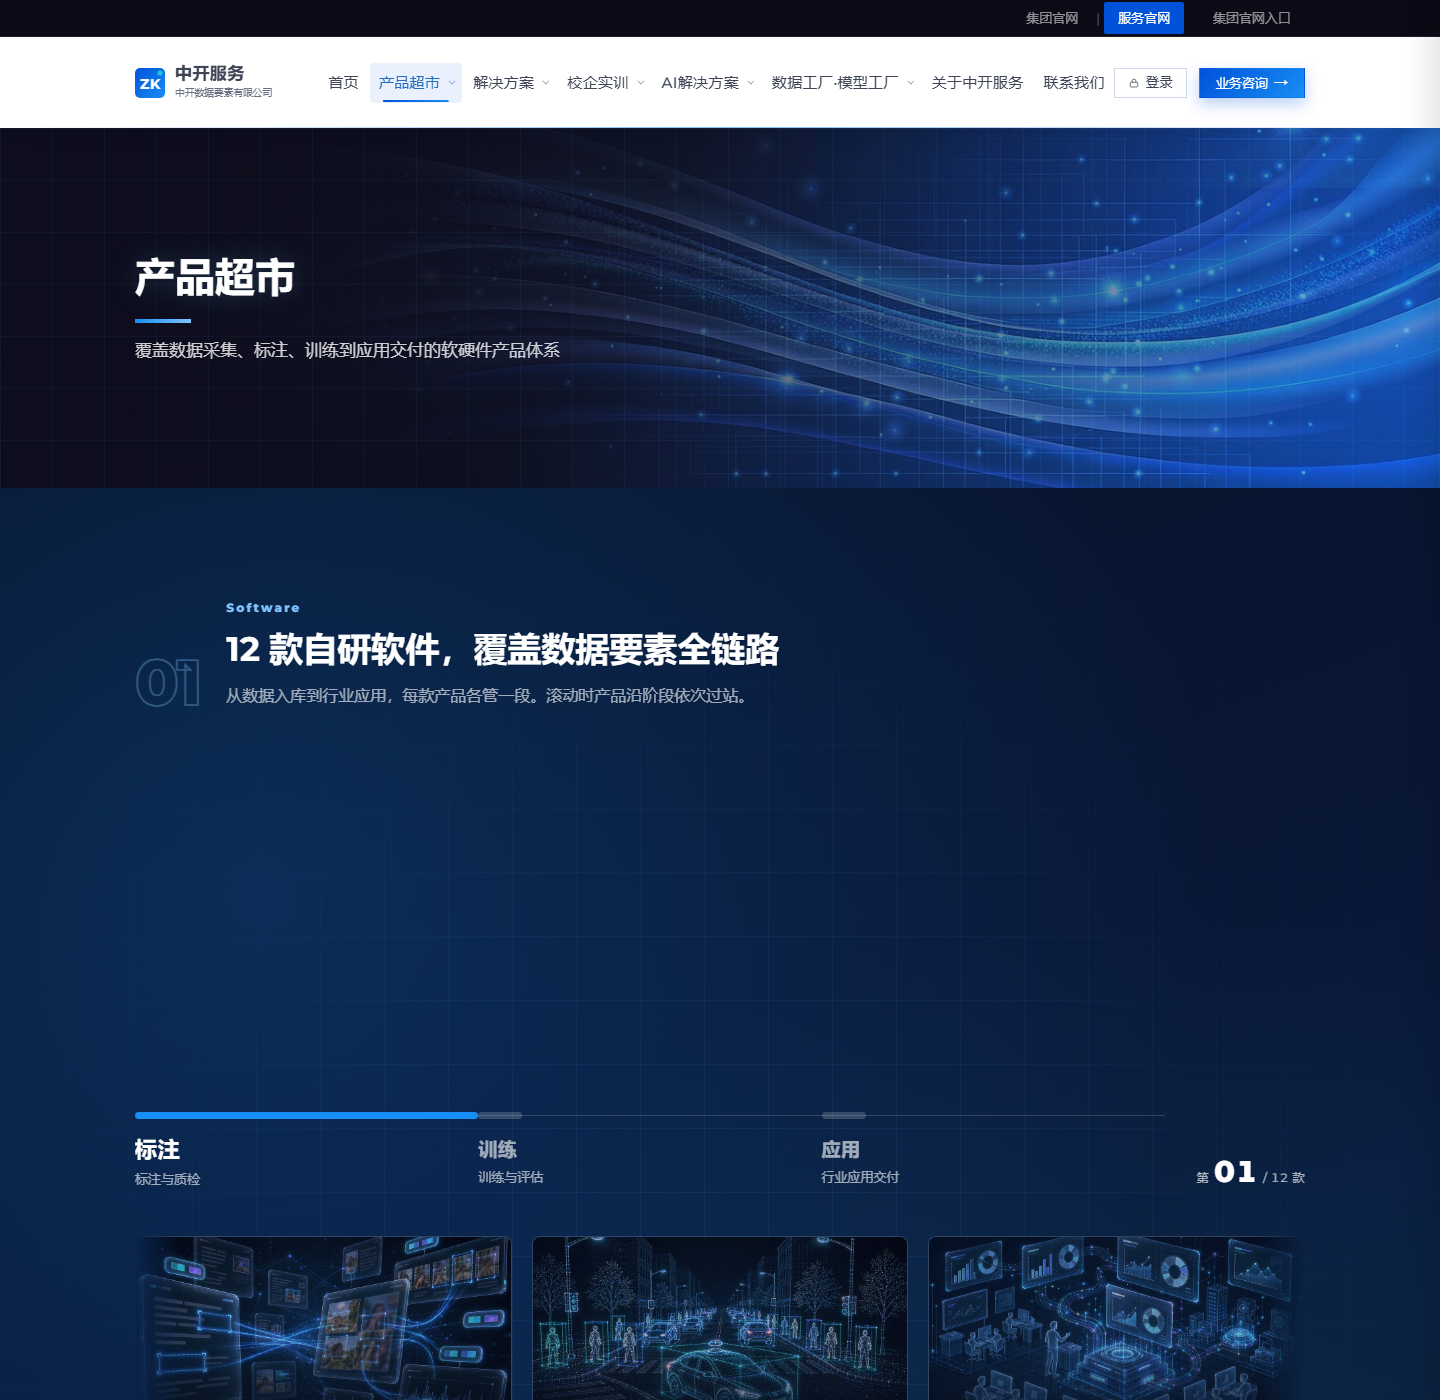
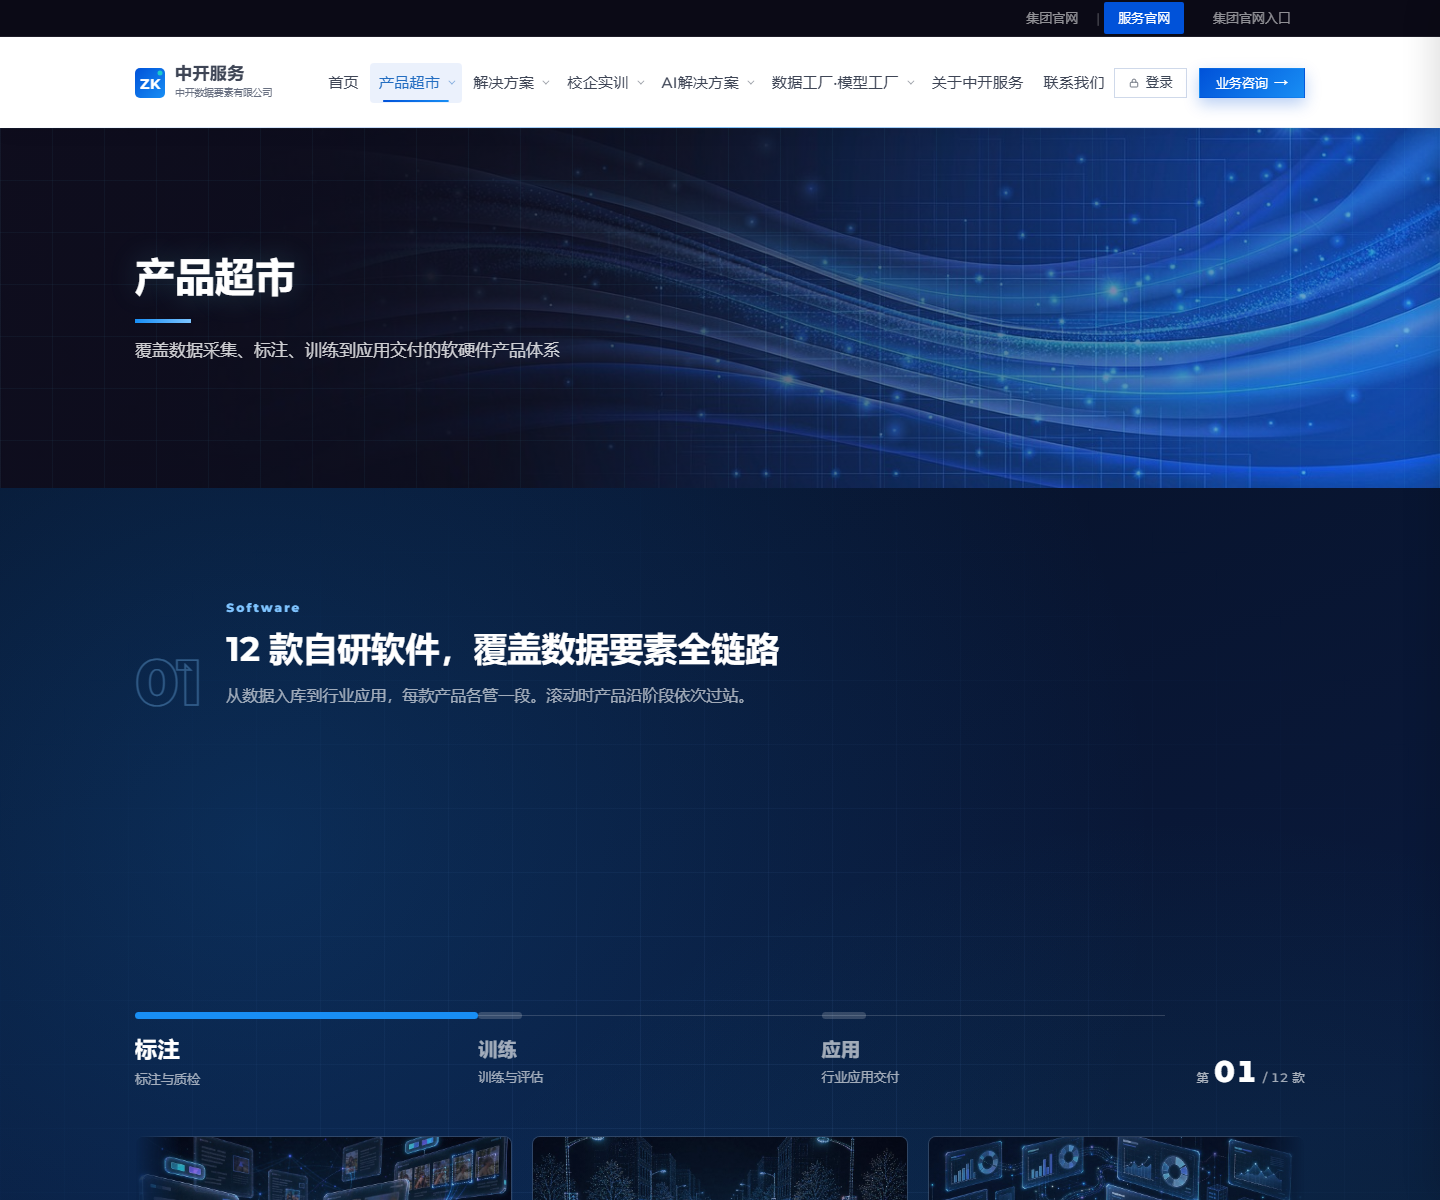
校准文档数字为线上真实值（2,000+ 席位 / 60+ 院校 / 30+ 企业）+ 补 Pages 实拍截图 8 张

diff --git a/screenshots/README.md b/screenshots/README.md
@@ -1,8 +1,21 @@
 # 附录 · 截图说明
 
-所有截图来自真实运行中的系统（本地 127.0.0.1:8901 静态服务 / 后台 6993），非设计稿。
+所有截图来自真实运行中的系统（GitHub Pages 上的 `site/` 镜像 / 本地后台 6993），非设计稿。
 
-## 官网（前台）
+## 线上实拍（GitHub Pages 上跑的真实镜像）
+
+| 文件 | 页面 | 看点 |
+|---|---|---|
+| [pages-index.png](pages-index.png) | 服务官网首页 | 视频首屏 + 数据条（5 省 / 2,000+ 席位 / 60+ 院校 / 30+ 企业）+ 资讯区 |
+| [pages-products.png](pages-products.png) | 产品超市 | 12 款软件 / 3 款硬件的分阶段货架（标注→训练→应用） |
+| [pages-product-3d.png](pages-product-3d.png) | 3D 点云标注平台 | 能力卡 4 张 + 规格表 6 行 + 相关产品 |
+| [pages-solutions.png](pages-solutions.png) | 解决方案 | 4 个方案块 |
+| [pages-group-bases.png](pages-group-bases.png) | 园区基地（集团站） | 7 基地 / 5 省 / 4,098+ 席位 / 6,997+ 就业，按省筛选 |
+| [pages-group-base-rizhao.png](pages-group-base-rizhao.png) | 日照基地详情 | 单基地的完整证据链 |
+| [pages-contact.png](pages-contact.png) | 联系我们 | **注意：「提交需求」无后端（已知缺陷 F-17）** |
+| [pages-landing.png](pages-landing.png) | 项目落地页 | 前后台双入口 + 统计条 |
+
+## 官网（本地构建版）
 
 | 文件 | 页面 | 看点 |
 |---|---|---|

diff --git a/docs/11-风险与合规.md b/docs/11-风险与合规.md
@@ -21,7 +21,7 @@
 | 风险 | 说明 | 措施 |
 |---|---|---|
 | 客户名单使用 | 基地页提到京东、字节跳动、人瑞等企业项目 | 只用「入驻企业/服务客户」的事实陈述，不使用客户 logo 与商标；对外可脱敏为「头部互联网企业」 |
-| 宣传口径 | 「1,929 个固定作业席位」「58 所合作院校」「29 家头部科技企业」等数字 | 每个数字可追溯到基地台账；对外发布前由业务确认；文案不用「最」「第一」等绝对化用语 |
+| 宣传口径 | 「2,000+ 个固定作业席位」「60+ 所合作院校」「30+ 家头部科技企业」等数字 | 每个数字可追溯到基地台账；对外发布前由业务确认；文案不用「最」「第一」等绝对化用语 |
 | 采访/报道转载 | 资讯分类含「国家政策」，会转载政策原文 | 只做摘要 + 原文链接，不全文转载；标注来源 |
 | 公众号同步版权 | 自动抓取本企业公众号文章 | 只抓自有公众号（绑定的是企业号），不抓第三方 |
 | ICP 备案 | 站点底部备案号 `鲁ICP备2021006930号` | 由 `site.icp` 字段统一维护，改一次全站生效 |

diff --git a/docs/01-调研报告.md b/docs/01-调研报告.md
@@ -23,7 +23,7 @@
 行业趋势被概括为「垂直化、定制化、智能化、规模化」。翻译成官网语言：
 
 - **垂直化** → 客户要看你懂不懂他的场景（自动驾驶？医疗？具身智能？），而现有官网的产品页是同一套模板填不同文案，看不出垂直差异。
-- **规模化** → 客户要看你的产能证据（席位、基地、交付周期）。现有官网的数字（1,929 个固定作业席位、58 所合作院校、29 家头部科技企业）散落在首页统计条里，没有形成可核查的证据链。
+- **规模化** → 客户要看你的产能证据（席位、基地、交付周期）。现有官网的数字（2,000+ 个固定作业席位、60+ 所合作院校、30+ 家头部科技企业）散落在首页统计条里，没有形成可核查的证据链。
 - **智能化** → 客户会问「你们用不用预标注」。这类信息更新极快，官网必须能周更。
 
 **推论**：在一个「谁都能说自己做数据标注」的市场里，官网的差异化不来自视觉，来自**信息更新速度与证据密度**。而这两件事都被「改不动」卡死了。

diff --git a/docs/05-内容模型与字段字典.md b/docs/05-内容模型与字段字典.md
@@ -188,7 +188,7 @@ nums(数据指标 stats) caps(核心职能卡 cells) biz(入驻与业务方向 p
 |---|---|---|
 | `hero_title` / `hero_desc` | text / longtext | 首屏 |
 | `intro_image` / `intro_badge` / `intro_h3` / `intro_paras` / `intro_cells` | image / text / text / paras / cells | 「走进我们」 |
-| `stats` | stats | 数据条（5 省 / 1,929 席位 / 58 院校 / 29 企业） |
+| `stats` | stats | 数据条（5 省 / 2,000+ 席位 / 60+ 院校 / 30+ 企业） |
 | `philosophy_tabs` | tabs | 企业理念 |
 | `milestones` | milestones | 发展历程 |
 | `news`（仅集团站） | news | 资讯区 |
